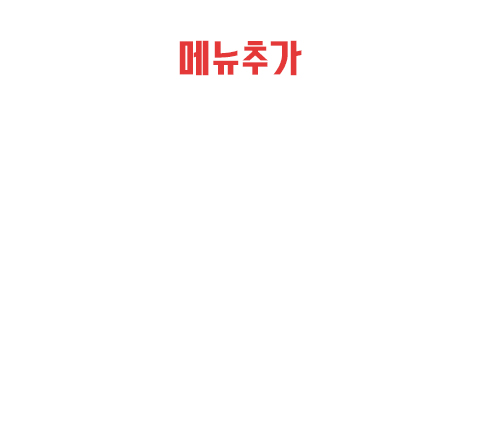
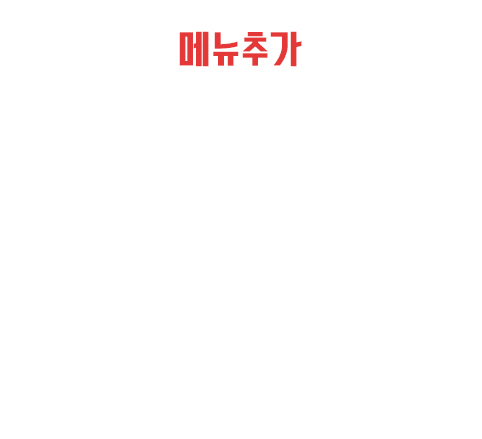
iiiiiii

Changed region(s): [[0.3734, 0.0592, 0.6224, 0.1777]]

diff --git a/khChicken_client/src/client/view/manager/AddMenuView.java b/khChicken_client/src/client/view/manager/AddMenuView.java
@@ -1,5 +1,6 @@
 package client.view.manager;
 
+import java.awt.Color;
 import java.awt.Font;
 import java.awt.Image;
 import java.awt.event.ActionEvent;
@@ -41,9 +42,15 @@ public class AddMenuView extends JFrame implements ActionListener {
 	private JButton cancelBtn;
 	private ButtonGroup btnGroup;
 	private String path = "";
+	
+	private static final String PATH = "images/manageView/";
 
 	public AddMenuView() {
 		setTitle("메뉴 추가");
+		
+		setContentPane(new JLabel(new ImageIcon(PATH + "addMenuView.jpg")));
+		setResizable(false);
+		
 		setBounds(300, 150, 482, 439);
 		getContentPane().setLayout(null);
 
@@ -59,6 +66,7 @@ public class AddMenuView extends JFrame implements ActionListener {
 		filePathField.setEditable(false);
 
 		JLabel imgFileLabel = new JLabel("이미지");
+		imgFileLabel.setFont(new Font("나눔고딕 ExtraBold", Font.PLAIN, 14));
 		imgFileLabel.setBounds(12, 135, 83, 15);
 		getContentPane().add(imgFileLabel);
 
@@ -69,6 +77,8 @@ public class AddMenuView extends JFrame implements ActionListener {
 		btnGroup = new ButtonGroup();
 
 		JRadioButton mainRadBtn = new JRadioButton("메인");
+		mainRadBtn.setBackground(Color.WHITE);
+		mainRadBtn.setFont(new Font("나눔고딕 ExtraBold", Font.PLAIN, 14));
 		mainRadBtn.setHorizontalAlignment(SwingConstants.CENTER);
 		mainRadBtn.setBounds(54, 59, 83, 23);
 		mainRadBtn.setSelected(true);
@@ -76,24 +86,29 @@ public class AddMenuView extends JFrame implements ActionListener {
 		getContentPane().add(mainRadBtn);
 
 		JRadioButton sideRadBtn = new JRadioButton("사이드");
+		sideRadBtn.setBackground(Color.WHITE);
+		sideRadBtn.setFont(new Font("나눔고딕 ExtraBold", Font.PLAIN, 14));
 		sideRadBtn.setHorizontalAlignment(SwingConstants.CENTER);
 		sideRadBtn.setBounds(191, 59, 83, 23);
 		btnGroup.add(sideRadBtn);
 		getContentPane().add(sideRadBtn);
 
 		JRadioButton beverageRadBtn = new JRadioButton("음료");
+		beverageRadBtn.setBackground(Color.WHITE);
+		beverageRadBtn.setFont(new Font("나눔고딕 ExtraBold", Font.PLAIN, 14));
 		beverageRadBtn.setHorizontalAlignment(SwingConstants.CENTER);
 		beverageRadBtn.setBounds(328, 59, 83, 23);
 		btnGroup.add(beverageRadBtn);
 		getContentPane().add(beverageRadBtn);
 
-		JLabel titleLabel = new JLabel("메뉴 추가");
+		/*JLabel titleLabel = new JLabel("메뉴 추가");
+		titleLabel.setHorizontalAlignment(SwingConstants.CENTER);
 		titleLabel.setHorizontalAlignment(SwingConstants.CENTER);
 		titleLabel.setFont(new Font("돋움체", Font.BOLD, 20));
 		titleLabel.setBounds(0, 10, 466, 30);
 		getContentPane().add(titleLabel);
-
-		searchBtn = new JButton("검색");
+*/
+		searchBtn = new JButton(new ImageIcon(PATH + "MenuSearchBtn.jpg"));
 		searchBtn.addActionListener(this);
 		searchBtn.setBounds(199, 131, 75, 23);
 		getContentPane().add(searchBtn);
@@ -103,29 +118,33 @@ public class AddMenuView extends JFrame implements ActionListener {
 		getContentPane().add(nameField);
 		nameField.setColumns(10);
 
-		JLabel label = new JLabel("메뉴 이름");
+		JLabel label = new JLabel("메뉴이름");
+		label.setFont(new Font("나눔고딕 ExtraBold", Font.PLAIN, 14));
 		label.setBounds(14, 103, 57, 15);
 		getContentPane().add(label);
 
 		JLabel priceLabel = new JLabel("가격");
+		priceLabel.setFont(new Font("나눔고딕 ExtraBold", Font.PLAIN, 14));
 		priceLabel.setBounds(288, 103, 46, 15);
 		getContentPane().add(priceLabel);
 
-		cancelBtn = new JButton("취소");
+		cancelBtn = new JButton(new ImageIcon(PATH + "addCancelBtn.jpg"));
 		cancelBtn.setBounds(278, 354, 83, 34);
 		getContentPane().add(cancelBtn);
 		cancelBtn.addActionListener(this);
-
-		submitBtn = new JButton("완료");
+		
+		submitBtn = new JButton(new ImageIcon(PATH + "completeBtn.jpg"));
 		submitBtn.setBounds(136, 354, 83, 34);
 		getContentPane().add(submitBtn);
 		submitBtn.addActionListener(this);
 
 		JLabel wonLabel = new JLabel("원");
+		wonLabel.setFont(new Font("나눔고딕 ExtraBold", Font.PLAIN, 14));
 		wonLabel.setBounds(428, 103, 38, 15);
 		getContentPane().add(wonLabel);
 
 		JLabel label_1 = new JLabel("제품 설명");
+		label_1.setFont(new Font("나눔고딕 ExtraBold", Font.PLAIN, 14));
 		label_1.setBounds(290, 131, 57, 15);
 		getContentPane().add(label_1);
 

diff --git a/khChicken_client/src/client/view/manager/ManageView.java b/khChicken_client/src/client/view/manager/ManageView.java
@@ -35,24 +35,19 @@ public class ManageView extends JFrame implements ActionListener {
 		setContentPane(new JLabel(new ImageIcon(PATH + "manageView2.jpg")));
 		setResizable(false);
 		
-		
-
 		btn_menu = new JButton(new ImageIcon(PATH + "menuManageBtn.png"));
 		btn_menu.setBounds(200, 100, 98, 50);
 		btn_menu.addActionListener(this);
-		btn_menu.setBackground(Color.pink);
 		add(btn_menu);
 
 		btn_sale = new JButton(new ImageIcon(PATH + "saleManageBtn.png"));
 		btn_sale.setBounds(200, 160, 98, 50);
 		btn_sale.addActionListener(this);
-		btn_sale.setBackground(Color.pink);
 		add(btn_sale);
 		
 		btn_customer = new JButton(new ImageIcon(PATH + "customerBtn.png"));
 		btn_customer.setBounds(200, 220, 98, 50);
 		btn_customer.addActionListener(this);
-		btn_customer.setBackground(Color.pink);
 		add(btn_customer);
 
 		btn_back = new JButton(new ImageIcon(PATH + "returnBtn.png"));
